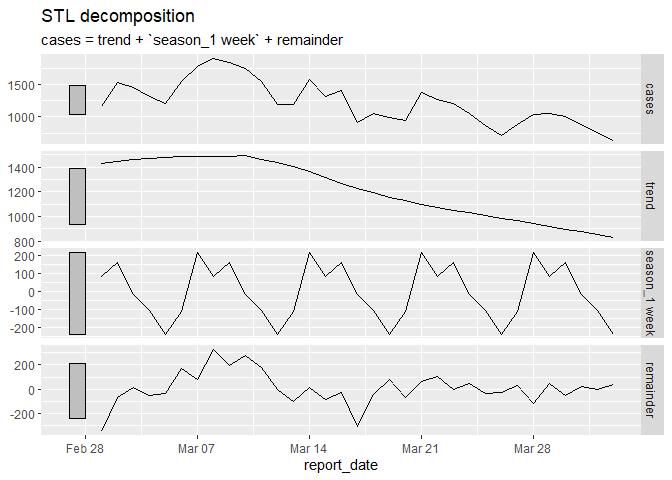
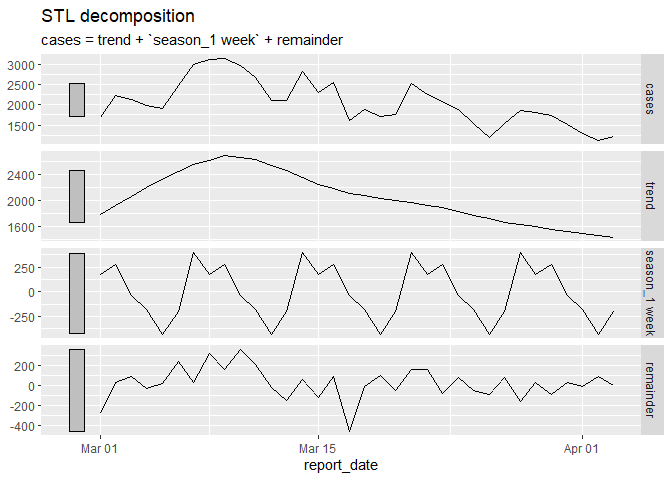
Combine multiple DHBs

diff --git a/covid-time-series.md b/covid-time-series.md
@@ -5,7 +5,8 @@ COVID-19 time series analysis
 
 ``` r
 case_data_url <- "https://github.com/minhealthnz/nz-covid-data/blob/main/cases/covid-cases.csv?raw=true"
-dhb_name <- "Capital and Coast"
+dhb_names <- c("Capital and Coast", "Hutt Valley", "Wairarapa")
+dhb_names_label <- glue::glue_collapse(dhb_names, sep = ", ", last = " and ")
 ```
 
 ## Download latest data
@@ -15,11 +16,14 @@ cases_df <- read_csv(case_data_url) %>%
   clean_names()
 ```
 
-    ## Rows: 693219 Columns: 7
+    ## Warning: One or more parsing issues, see `problems()` for details
+
+    ## Rows: 703467 Columns: 7
 
     ## -- Column specification --------------------------------------------------------
     ## Delimiter: ","
-    ## chr  (6): Case Status, Sex, Age group, DHB, Overseas travel, Historical
+    ## chr  (5): Case Status, Sex, Age group, DHB, Overseas travel
+    ## lgl  (1): Historical
     ## date (1): Report Date
 
     ## 
@@ -31,14 +35,14 @@ head(cases_df)
 ```
 
     ## # A tibble: 6 x 7
-    ##   report_date case_status sex    age_group dhb        overseas_travel historical
-    ##   <date>      <chr>       <chr>  <chr>     <chr>      <chr>           <chr>     
-    ## 1 2022-04-02  Confirmed   Female 20 to 29  Waitemata  No              <NA>      
-    ## 2 2022-04-02  Confirmed   Male   60 to 69  Hutt Vall~ Unknown         <NA>      
-    ## 3 2022-04-02  Confirmed   Female 20 to 29  Hutt Vall~ Unknown         <NA>      
-    ## 4 2022-04-02  Confirmed   Male   20 to 29  Canterbury Unknown         <NA>      
-    ## 5 2022-04-02  Confirmed   Male   0 to 9    Capital a~ Unknown         <NA>      
-    ## 6 2022-04-02  Confirmed   Female 40 to 49  Canterbury Unknown         <NA>
+    ##   report_date case_status sex   age_group dhb           overseas_travel historical
+    ##   <date>      <chr>       <chr> <chr>     <chr>         <chr>           <lgl>     
+    ## 1 2022-04-03  Confirmed   Male  40 to 49  Whanganui     Unknown         NA        
+    ## 2 2022-04-03  Confirmed   Male  70 to 79  Bay of Plenty Unknown         NA        
+    ## 3 2022-04-03  Confirmed   Male  0 to 9    Auckland      Unknown         NA        
+    ## 4 2022-04-03  Confirmed   Male  60 to 69  Wairarapa     Unknown         NA        
+    ## 5 2022-04-03  Confirmed   Male  10 to 19  Auckland      Unknown         NA        
+    ## 6 2022-04-03  Confirmed   Male  40 to 49  Hawke's Bay   Unknown         NA
 
 ``` r
 skim(cases_df)
@@ -47,12 +51,13 @@ skim(cases_df)
 |                                                  |           |
 |:-------------------------------------------------|:----------|
 | Name                                             | cases\_df |
-| Number of rows                                   | 693219    |
+| Number of rows                                   | 703467    |
 | Number of columns                                | 7         |
 | \_\_\_\_\_\_\_\_\_\_\_\_\_\_\_\_\_\_\_\_\_\_\_   |           |
 | Column type frequency:                           |           |
-| character                                        | 6         |
+| character                                        | 5         |
 | Date                                             | 1         |
+| logical                                          | 1         |
 | \_\_\_\_\_\_\_\_\_\_\_\_\_\_\_\_\_\_\_\_\_\_\_\_ |           |
 | Group variables                                  | None      |
 
@@ -65,13 +70,18 @@ skim(cases_df)
 | age\_group       |           0|               1|    3|    8|      0|         11|           0|
 | dhb              |           0|               1|    5|   30|      0|         22|           0|
 | overseas\_travel |           0|               1|    2|    7|      0|          3|           0|
-| historical       |      692786|               0|    3|    3|      0|          1|           0|
 
 **Variable type: Date**
 
 | skim\_variable |  n\_missing|  complete\_rate| min        | max        | median     |  n\_unique|
 |:---------------|-----------:|---------------:|:-----------|:-----------|:-----------|----------:|
-| report\_date   |           0|               1| 2020-02-26 | 2022-04-02 | 2022-03-11 |        664|
+| report\_date   |           0|               1| 2020-02-26 | 2022-04-03 | 2022-03-12 |        665|
+
+**Variable type: logical**
+
+| skim\_variable |  n\_missing|  complete\_rate|  mean| count |
+|:---------------|-----------:|---------------:|-----:|:------|
+| historical     |      703467|               0|   NaN| :     |
 
 ## DHB summaries
 
@@ -82,7 +92,7 @@ cases_by_dhb_df <- cases_df %>%
 cases_by_dhb_df
 ```
 
-    ## # A tibble: 3,546 x 4
+    ## # A tibble: 3,572 x 4
     ##    report_date dhb               case_status     n
     ##    <date>      <chr>             <chr>       <int>
     ##  1 2020-02-26  Auckland          Confirmed       1
@@ -95,15 +105,15 @@ cases_by_dhb_df
     ##  8 2020-03-12  Counties Manukau  Confirmed       1
     ##  9 2020-03-13  Southern          Confirmed       1
     ## 10 2020-03-14  Capital and Coast Confirmed       1
-    ## # ... with 3,536 more rows
+    ## # ... with 3,562 more rows
 
 ## Wellington figures
 
-It might be good to add Hutt to CCDHB later.
+Include Hutt and Wairarapa as well as CCDHB.
 
 ``` r
 dhb_cases_df <- cases_by_dhb_df %>% 
-  filter(dhb == dhb_name) %>% 
+  filter(dhb %in% dhb_names) %>% 
   filter(report_date >= ymd(20220201)) %>% 
   group_by(report_date, dhb) %>% 
   summarise(cases = sum(n, na.rm = FALSE))
@@ -117,12 +127,14 @@ wfh_start_date <- ymd(20220221)
 dhb_cases_df %>%
   ggplot() +
   geom_vline(xintercept = wfh_start_date, colour = "firebrick") +
-  geom_line(aes(x = report_date, y = cases)) +
-  geom_point(aes(x = report_date, y = cases)) +
+  geom_col(aes(x = report_date, y = cases, fill = dhb), position = "stack", width = 0.8) +
   scale_y_continuous(limits = c(0, NA)) +
   scale_x_date(date_breaks = "1 week", date_labels = "%d %b") +
-  labs(x = "", y= "", title = str_glue("Daily COVID-19 Cases for {dhb_name} DHB")) +
-  theme_minimal()
+  scale_fill_viridis_d(option = "D", guide = guide_legend(title = "DHB")) +
+  labs(x = "", y= "",
+       title = str_glue("Daily COVID-19 Cases for {dhb_names_label} DHBs")) +
+  theme_minimal() +
+  theme(panel.grid.minor = element_blank())
 ```
 
 ![](covid-time-series_files/figure-markdown_github/wellington-1.png)
@@ -136,6 +148,8 @@ To best capture the weekly seasonality, it might be best to start modelling from
 model_start_date <- ymd(20220301)
 
 dhb_cases_ts <- dhb_cases_df %>% 
+  group_by(report_date) %>% 
+  summarise(cases = sum(cases, na.rm = FALSE)) %>% 
   ungroup() %>% 
   filter(report_date >= model_start_date) %>% 
   select(report_date, cases) %>% 
@@ -144,7 +158,7 @@ dhb_cases_ts <- dhb_cases_df %>%
   replace_na(list(cases = 0))
 
 dhb_cases_stl <- dhb_cases_ts %>% 
-  model(STL(cases ~ trend(window = 7 * 3) + season(period = "1 week", window = Inf))) %>% 
+  model(STL(cases ~ trend(window = 7 * 2) + season(period = "1 week", window = Inf))) %>% 
   components()
 
 dhb_cases_stl %>% 
@@ -160,12 +174,13 @@ dhb_cases_stl %>%
   # geom_vline(xintercept = wfh_start_date, colour = "firebrick") +
   geom_line(aes(x = report_date, y = season_adjust), colour = "firebrick", size = 1) +
   geom_line(aes(x = report_date, y = trend), colour = "steelblue", size = 1) +
-  # geom_line(aes(x = report_date, y = cases)) +
   geom_point(aes(x = report_date, y = cases)) +
   scale_x_date(date_breaks = "1 week", date_labels = "%d %b") +
   scale_y_continuous(limits = c(0, NA)) +
-  labs(x = "", y= "", title = str_glue("Daily COVID-19 Cases for {dhb_name} DHB")) +
-  theme_minimal()
+  labs(x = "", y= "",
+       title = str_glue("Daily COVID-19 Cases for {dhb_names_label} DHBs")) +
+  theme_minimal() +
+  theme(panel.grid.minor = element_blank())
 ```
 
 ![](covid-time-series_files/figure-markdown_github/seasonally-adjusted-1.png)
